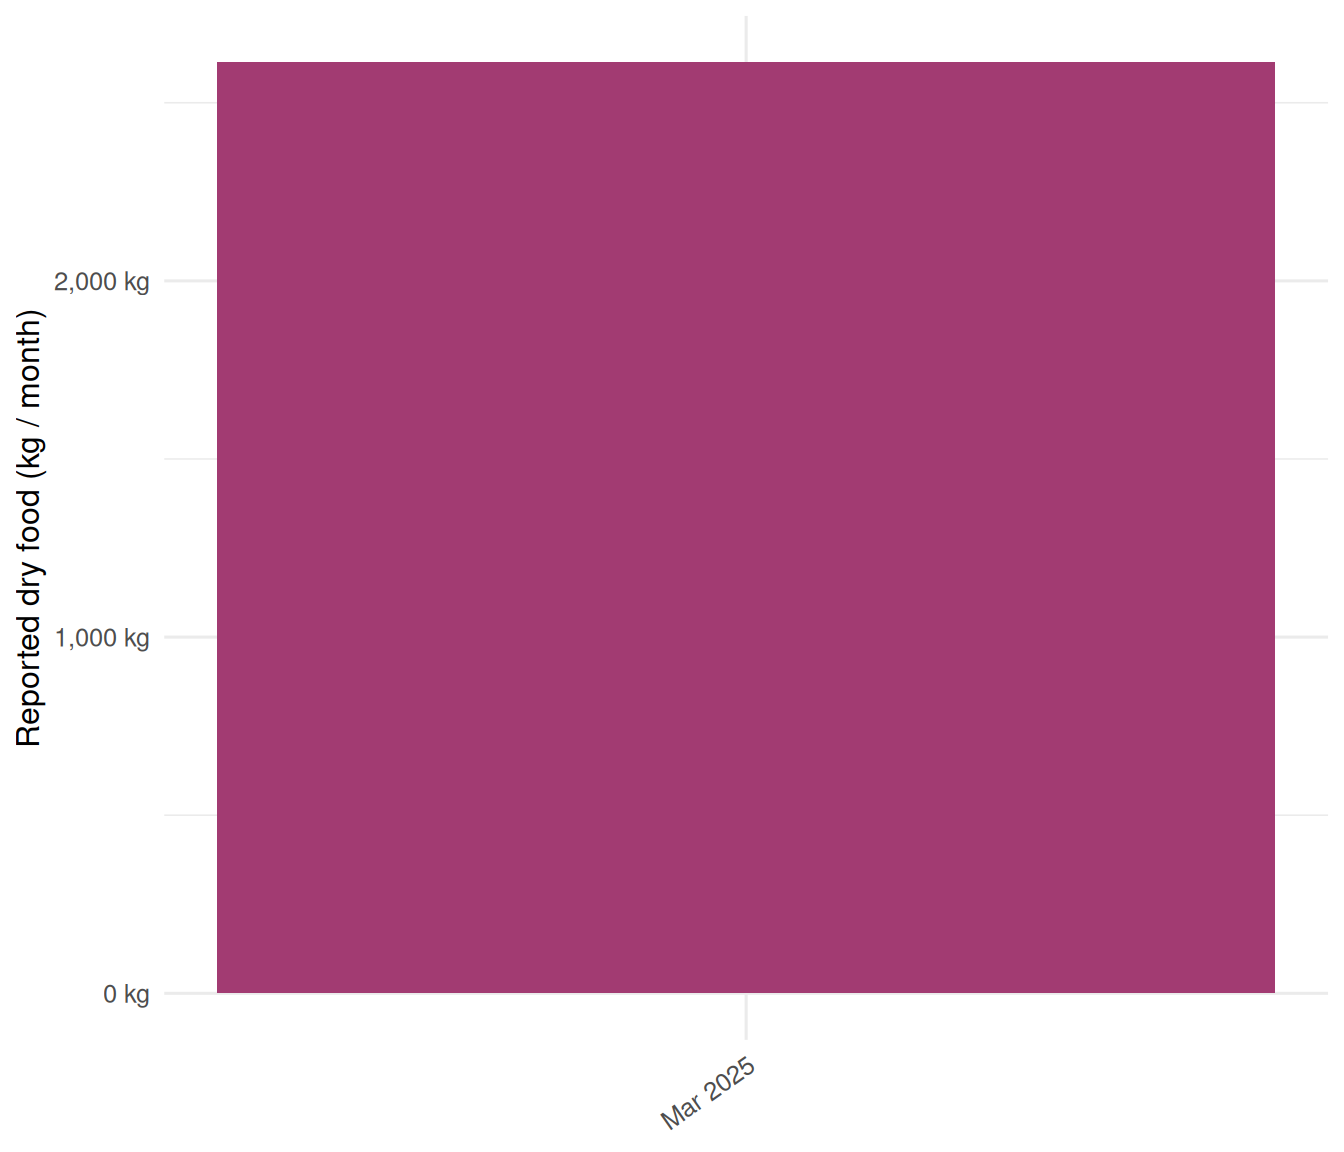
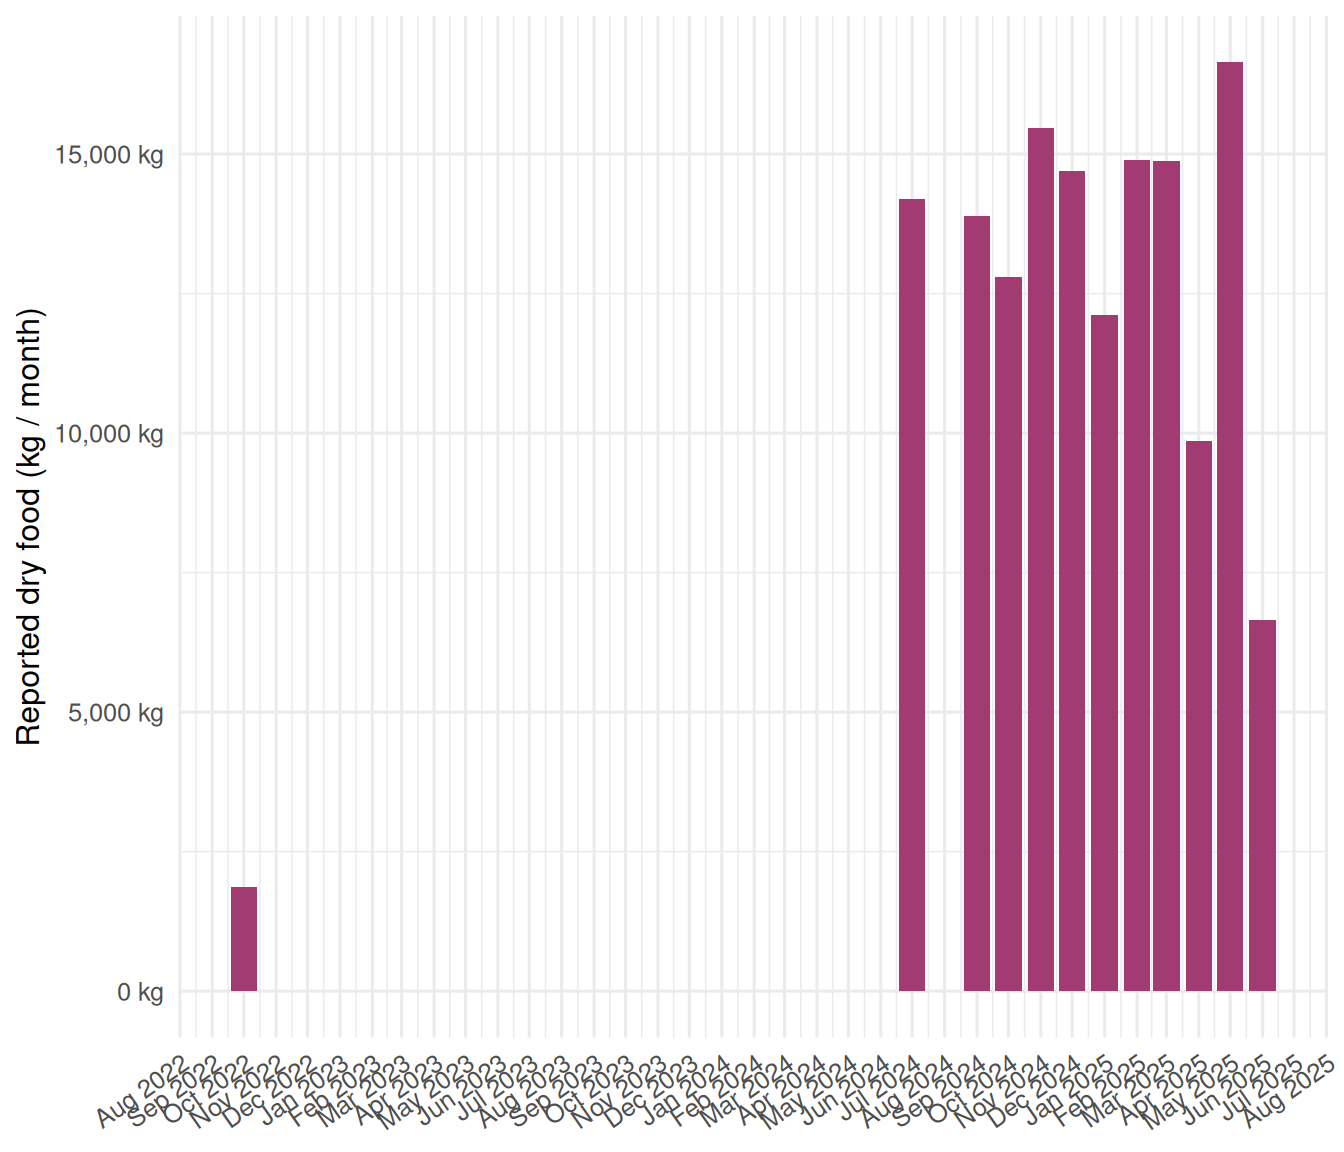
deploy: 7868d6af8ef7e67271b41f0d7e892cdb28d9dd47

diff --git a/data.html b/data.html
@@ -208,7 +208,7 @@ pre > code.sourceCode > span > a:first-child::before { text-decoration: underlin
 <ul>
 <li>Combined <strong>11 monthly workbooks</strong> (≈ 3,700+ neighborhood-day rows) into one tibble <code>feeding</code>.</li>
 <li><strong>Standardized</strong> district / neighborhood labels (trimmed stray spaces such as <code>"GÖLBAŞI "</code>).</li>
-<li><strong>Parsed mixed date formats</strong> — most files use Excel dates; <strong>March 2025</strong> stored them as strings like <code>"1.03.2025"</code>. Both formats are handled by <code>parse_mixed_date()</code>.</li>
+<li><strong>Parsed mixed date formats</strong> — column 1 is read as a native Excel <strong><code>date</code></strong> where possible; when that is missing (e.g.&nbsp;<strong>March 2025</strong> string cells like <code>"1.03.2025"</code>), we fill from the text column with <code>parse_date_from_text()</code> (Excel serials, <code>lubridate</code>, explicit formats).</li>
 <li><strong>Parsed</strong> text-encoded dry-food amounts into numeric <strong><code>mama_kg</code></strong> (e.g.&nbsp;<code>"84 KG"</code> → <code>84</code>).</li>
 <li><strong>Normalized vehicle / personnel</strong> fields: <strong><code>Y3</code> → 3</strong>, <strong><code>-</code> → missing</strong>, blank → missing.</li>
 <li>Added derived columns <strong><code>yil</code></strong>, <strong><code>ay</code></strong>, <strong><code>yil_ay</code></strong> so the analysis page can compare across months.</li>
@@ -230,11 +230,11 @@ pre > code.sourceCode > span > a:first-child::before { text-decoration: underlin
 <p><strong>Pipeline (mirrors <code>R/prepare_data.R</code>):</strong></p>
 <ol type="1">
 <li><strong>Auto-discover</strong> every file under <code>data/raw/</code> matching <code>hayvan_besleme_*.xlsx</code>.</li>
-<li><strong>Read</strong> each workbook with all columns as text (so we control coercion ourselves).</li>
-<li><strong>Rename</strong> the seven columns to ASCII snake_case: <code>tarih</code>, <code>ilce</code>, <code>mahalle_sokak</code>, <code>besleme_noktasi_sayisi</code>, <code>mama_kg</code>, <code>arac_sayisi</code>, <code>personel_sayisi</code>, plus the metadata column <code>source_file</code>.</li>
-<li><strong>Parse dates</strong> via <code>parse_mixed_date()</code> — accepts Excel <code>Date</code>/<code>POSIXct</code> values and DMY strings (<code>"1.03.2025"</code>).</li>
+<li><strong>Read each workbook twice for column 1:</strong> native Excel <strong><code>date</code></strong> (covers most months) plus a parallel <strong>text</strong> pass so we can recover <strong>string-encoded dates</strong> (e.g.&nbsp;March 2025’s <code>"1.03.2025"</code>) and <strong>numeric Excel serials</strong> if a sheet is ever exported as plain numbers.</li>
+<li><strong>Merge</strong> the two passes: use <code>as.Date()</code> on the date column; where it is still <code>NA</code>, fill from the text column via <code>parse_date_from_text()</code>.</li>
+<li><strong>Rename</strong> the seven source columns to ASCII snake_case: <code>tarih</code>, <code>ilce</code>, <code>mahalle_sokak</code>, <code>besleme_noktasi_sayisi</code>, <code>mama_kg</code> (via <code>mama_text</code>), <code>arac_sayisi</code>, <code>personel_sayisi</code>, plus metadata <code>source_file</code>.</li>
 <li><strong>Trim</strong> extra spaces in <code>ilce</code> and <code>mahalle_sokak</code>.</li>
-<li><strong>Parse food mass</strong> with <code>readr::parse_number()</code> (extracts the leading kg figure).</li>
+<li><strong>Parse food mass</strong> with <code>readr::parse_number()</code> (Turkish decimal comma) from the mama text field.</li>
 <li><strong>Parse vehicles:</strong> <code>"-"</code> → <code>NA</code>; <code>"Y3"</code> (typo) → <code>3</code>; otherwise numeric.</li>
 <li><strong>Parse personnel:</strong> <code>"-"</code> → <code>NA</code>; otherwise numeric.</li>
 <li><strong>Combine</strong> with <code>purrr::map_dfr()</code>, drop rows whose date failed to parse, add <code>yil</code> / <code>ay</code> / <code>yil_ay</code>, and <strong>save</strong> <code>feeding</code> to <code>data/feeding_clean.RData</code>.</li>
@@ -807,7 +807,7 @@ pre > code.sourceCode > span > a:first-child::before { text-decoration: underlin
 <span id="cb2-23"><a href="#cb2-23" aria-hidden="true" tabindex="-1"></a></span>
 <span id="cb2-24"><a href="#cb2-24" aria-hidden="true" tabindex="-1"></a><span class="ss">- </span>Combined **11 monthly workbooks** (≈ 3,700+ neighborhood-day rows) into one tibble <span class="in">`feeding`</span>.</span>
 <span id="cb2-25"><a href="#cb2-25" aria-hidden="true" tabindex="-1"></a><span class="ss">- </span>**Standardized** district / neighborhood labels (trimmed stray spaces such as <span class="in">`"GÖLBAŞI "`</span>).</span>
-<span id="cb2-26"><a href="#cb2-26" aria-hidden="true" tabindex="-1"></a><span class="ss">- </span>**Parsed mixed date formats** — most files use Excel dates; **March 2025** stored them as strings like <span class="in">`"1.03.2025"`</span>. Both formats are handled by <span class="in">`parse_mixed_date()`</span>.</span>
+<span id="cb2-26"><a href="#cb2-26" aria-hidden="true" tabindex="-1"></a><span class="ss">- </span>**Parsed mixed date formats** — column 1 is read as a native Excel **`date`** where possible; when that is missing (e.g. **March 2025** string cells like <span class="in">`"1.03.2025"`</span>), we fill from the text column with <span class="in">`parse_date_from_text()`</span> (Excel serials, <span class="in">`lubridate`</span>, explicit formats).</span>
 <span id="cb2-27"><a href="#cb2-27" aria-hidden="true" tabindex="-1"></a><span class="ss">- </span>**Parsed** text-encoded dry-food amounts into numeric **`mama_kg`** (e.g. <span class="in">`"84 KG"`</span> → <span class="in">`84`</span>).</span>
 <span id="cb2-28"><a href="#cb2-28" aria-hidden="true" tabindex="-1"></a><span class="ss">- </span>**Normalized vehicle / personnel** fields: **`Y3` → 3**, **`-` → missing**, blank → missing.</span>
 <span id="cb2-29"><a href="#cb2-29" aria-hidden="true" tabindex="-1"></a><span class="ss">- </span>Added derived columns **`yil`**, **`ay`**, **`yil_ay`** so the analysis page can compare across months.</span>
@@ -830,11 +830,11 @@ pre > code.sourceCode > span > a:first-child::before { text-decoration: underlin
 <span id="cb2-46"><a href="#cb2-46" aria-hidden="true" tabindex="-1"></a>**Pipeline (mirrors `R/prepare_data.R`):**</span>
 <span id="cb2-47"><a href="#cb2-47" aria-hidden="true" tabindex="-1"></a></span>
 <span id="cb2-48"><a href="#cb2-48" aria-hidden="true" tabindex="-1"></a><span class="ss">1. </span>**Auto-discover** every file under <span class="in">`data/raw/`</span> matching <span class="in">`hayvan_besleme_*.xlsx`</span>.</span>
-<span id="cb2-49"><a href="#cb2-49" aria-hidden="true" tabindex="-1"></a><span class="ss">2. </span>**Read** each workbook with all columns as text (so we control coercion ourselves).</span>
-<span id="cb2-50"><a href="#cb2-50" aria-hidden="true" tabindex="-1"></a><span class="ss">3. </span>**Rename** the seven columns to ASCII snake_case: <span class="in">`tarih`</span>, <span class="in">`ilce`</span>, <span class="in">`mahalle_sokak`</span>, <span class="in">`besleme_noktasi_sayisi`</span>, <span class="in">`mama_kg`</span>, <span class="in">`arac_sayisi`</span>, <span class="in">`personel_sayisi`</span>, plus the metadata column <span class="in">`source_file`</span>.</span>
-<span id="cb2-51"><a href="#cb2-51" aria-hidden="true" tabindex="-1"></a><span class="ss">4. </span>**Parse dates** via <span class="in">`parse_mixed_date()`</span> — accepts Excel <span class="in">`Date`</span>/<span class="in">`POSIXct`</span> values and DMY strings (<span class="in">`"1.03.2025"`</span>).</span>
+<span id="cb2-49"><a href="#cb2-49" aria-hidden="true" tabindex="-1"></a><span class="ss">2. </span>**Read each workbook twice for column 1:** native Excel **`date`** (covers most months) plus a parallel **text** pass so we can recover **string-encoded dates** (e.g. March 2025’s `"1.03.2025"`) and **numeric Excel serials** if a sheet is ever exported as plain numbers.</span>
+<span id="cb2-50"><a href="#cb2-50" aria-hidden="true" tabindex="-1"></a><span class="ss">3. </span>**Merge** the two passes: use <span class="in">`as.Date()`</span> on the date column; where it is still <span class="in">`NA`</span>, fill from the text column via <span class="in">`parse_date_from_text()`</span>.</span>
+<span id="cb2-51"><a href="#cb2-51" aria-hidden="true" tabindex="-1"></a><span class="ss">4. </span>**Rename** the seven source columns to ASCII snake_case: <span class="in">`tarih`</span>, <span class="in">`ilce`</span>, <span class="in">`mahalle_sokak`</span>, <span class="in">`besleme_noktasi_sayisi`</span>, <span class="in">`mama_kg`</span> (via <span class="in">`mama_text`</span>), <span class="in">`arac_sayisi`</span>, <span class="in">`personel_sayisi`</span>, plus metadata <span class="in">`source_file`</span>.</span>
 <span id="cb2-52"><a href="#cb2-52" aria-hidden="true" tabindex="-1"></a><span class="ss">5. </span>**Trim** extra spaces in <span class="in">`ilce`</span> and <span class="in">`mahalle_sokak`</span>.</span>
-<span id="cb2-53"><a href="#cb2-53" aria-hidden="true" tabindex="-1"></a><span class="ss">6. </span>**Parse food mass** with <span class="in">`readr::parse_number()`</span> (extracts the leading kg figure).</span>
+<span id="cb2-53"><a href="#cb2-53" aria-hidden="true" tabindex="-1"></a><span class="ss">6. </span>**Parse food mass** with <span class="in">`readr::parse_number()`</span> (Turkish decimal comma) from the mama text field.</span>
 <span id="cb2-54"><a href="#cb2-54" aria-hidden="true" tabindex="-1"></a><span class="ss">7. </span>**Parse vehicles:** <span class="in">`"-"`</span> → <span class="in">`NA`</span>; <span class="in">`"Y3"`</span> (typo) → <span class="in">`3`</span>; otherwise numeric.</span>
 <span id="cb2-55"><a href="#cb2-55" aria-hidden="true" tabindex="-1"></a><span class="ss">8. </span>**Parse personnel:** <span class="in">`"-"`</span> → <span class="in">`NA`</span>; otherwise numeric.</span>
 <span id="cb2-56"><a href="#cb2-56" aria-hidden="true" tabindex="-1"></a><span class="ss">9. </span>**Combine** with `purrr::map_dfr()`, drop rows whose date failed to parse, add `yil` / `ay` / `yil_ay`, and **save** <span class="in">`feeding`</span> to <span class="in">`data/feeding_clean.RData`</span>.</span>

diff --git a/analysis.html b/analysis.html
@@ -253,15 +253,15 @@ Table&nbsp;1: Dataset coverage and missingness across all months
 </thead>
 <tbody>
 <tr class="odd">
-<td style="text-align: right;">40</td>
-<td style="text-align: right;">1</td>
-<td style="text-align: left;">2025-03-01</td>
-<td style="text-align: left;">2025-03-04</td>
-<td style="text-align: right;">4</td>
-<td style="text-align: right;">6</td>
+<td style="text-align: right;">3731</td>
+<td style="text-align: right;">12</td>
+<td style="text-align: left;">2022-10-18</td>
+<td style="text-align: left;">2025-06-27</td>
+<td style="text-align: right;">286</td>
+<td style="text-align: right;">22</td>
 <td style="text-align: right;">0</td>
-<td style="text-align: right;">0</td>
-<td style="text-align: right;">0</td>
+<td style="text-align: right;">16</td>
+<td style="text-align: right;">16</td>
 </tr>
 </tbody>
 </table>
@@ -513,8 +513,8 @@ Table&nbsp;2: Vehicle and personnel coverage
 <tr class="odd">
 <td style="text-align: right;">1</td>
 <td style="text-align: right;">1</td>
-<td style="text-align: right;">0</td>
-<td style="text-align: right;">0</td>
+<td style="text-align: right;">0.004</td>
+<td style="text-align: right;">0.004</td>
 </tr>
 </tbody>
 </table>
